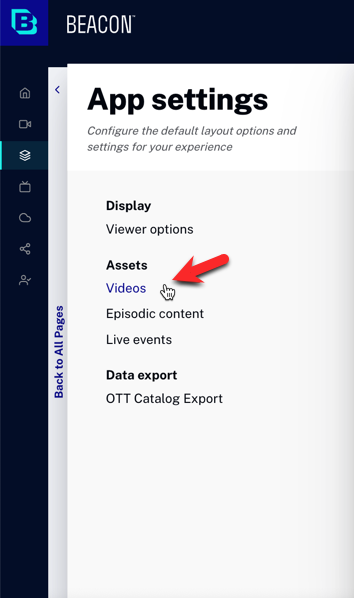
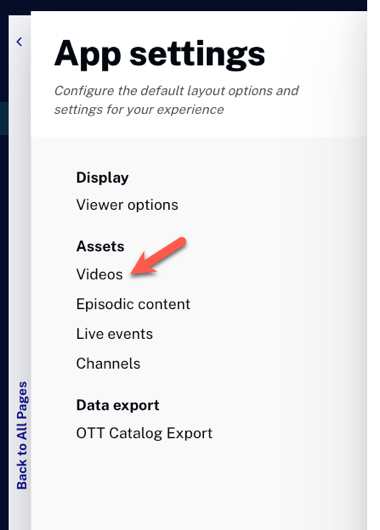
Added Channels section to Using Content Layouts doc

diff --git a/_site/layout/using-content-layouts.html b/_site/layout/using-content-layouts.html
@@ -4145,29 +4145,68 @@
     <ol class="bcls-tasklist-restart">
       <li>In the primary navigation, click <strong>Layout</strong>.</li>
       <li>Click <strong>Settings </strong> <img class="ui-image" src="/assets/images/common/gear-blue.png" alt="settings">.</li>
-      <li><p>The App Settings page appears. In <strong>Assets</strong>, click <strong>Live events</strong> to start.</p>
+      <li>
+        <p>The App Settings page appears. In <strong>Assets</strong>, click <strong>Live events</strong> to start.</p>
         <figure class="bcls-figure">
           <img class="bcls-image" src="/assets/images/s-layout-img/using-content-layouts/live-events.png" alt="live events">
-        </figure></li>
-      <li><p>The information layout of the videos is displayed by letters <strong>(A, I)</strong>. Note that as you click on the different layout, the preview changes to show you what your design looks like.</p>
-  <figure class="bcls-figure">
-    <img class="bcls-image" src="/assets/images/s-layout-img/using-content-layouts/layout-I.webp" alt="layout I">
-  </figure>
-  <figure class="bcls-figure">
-    <img class="bcls-image" src="/assets/images/s-layout-img/using-content-layouts/layout-A.webp" alt="layout A">
-  </figure>
-    </li>
-    <li><p>You can also choose how the layout information is displayed. The video title in Live events could be either <em>Inside</em> or <em>Outside</em>.</p>
-<figure class="bcls-figure">
-  <img class="bcls-image" src="/assets/images/s-layout-img/using-content-layouts/inside.webp" alt="Inside">
-</figure>
-<figure class="bcls-figure">
-  <img class="bcls-image" src="/assets/images/s-layout-img/using-content-layouts/outside.webp" alt="Outside">
-</figure>
-</li>
-<li>Click <strong> Player</strong> to display information about the currently playing live event. </li>
+        </figure>
+      </li>
+      <li>
+        <p>The information layout of the videos is displayed by letters <strong>(A, I)</strong>. Note that as you click on the different layout, the preview changes to show you what your design looks like.</p>
+        <figure class="bcls-figure">
+          <img class="bcls-image" src="/assets/images/s-layout-img/using-content-layouts/layout-I.webp" alt="layout I">
+        </figure>
+        <figure class="bcls-figure">
+          <img class="bcls-image" src="/assets/images/s-layout-img/using-content-layouts/layout-A.webp" alt="layout A">
+        </figure>
+      </li>
+      <li>
+        <p>You can also choose how the layout information is displayed. The video title in Live events could be either <em>Inside</em> or <em>Outside</em>.</p>
+        <figure class="bcls-figure">
+          <img class="bcls-image" src="/assets/images/s-layout-img/using-content-layouts/inside.webp" alt="Inside">
+        </figure>
+        <figure class="bcls-figure">
+          <img class="bcls-image" src="/assets/images/s-layout-img/using-content-layouts/outside.webp" alt="Outside">
+        </figure>
+      </li>
+      <li>Click <strong> Player</strong> to display information about the currently playing live event. </li>
     </ol>
   </section>
+
+  <section class="bcls-section">
+    <h2 id="Channels">Channels</h2>
+    <p>When the viewer clicks the <strong>Channels</strong> button in the app, the list of channels can be displayed in two different ways:</p>
+    <ul>
+      <li>List view</li>
+      <li>Grid view</li>
+    </ul>
+    <p>To set this value, follow these steps:</p>
+    <ol class="bcls-tasklist">
+      <li>In the primary navigation, click <strong>Layout</strong>.</li>
+      <li>Click <strong>Settings </strong> <img class="ui-image" src="/assets/images/common/gear-blue.png" alt="settings">.</li>
+      <li>
+        <p>The App Settings page appears. In <strong>Assets</strong>, click <strong>Channels</strong> to start.</p>
+        <figure class="bcls-figure">
+          <img class="bcls-image" src="/assets/images/s-layout-img/using-content-layouts/click-channels.png" alt="live events">
+        </figure>
+      </li>
+      <li>The two options are displayed:
+        <figure class="bcls-figure">
+          <img class="bcls-image" src="/assets/images/s-layout-img/using-content-layouts/channels-options.png" alt="Inside">
+        </figure>
+
+      </li>
+      <li>The previews of the two layouts are shown here:
+        <figure class="bcls-figure">
+          <img class="bcls-image" src="/assets/images/s-layout-img/using-content-layouts/channels-list.png" alt="list">
+        </figure>
+        <figure class="bcls-figure">
+          <img class="bcls-image" src="/assets/images/s-layout-img/using-content-layouts/channels-grid.png" alt="grid">
+        </figure>
+      </li>
+    </ol>
+  </section>
+
 </article>
 <!-- <div class="col-sm-2 right-side-bar" style="display: inline-block;max-width: 20%;"> -->
   
